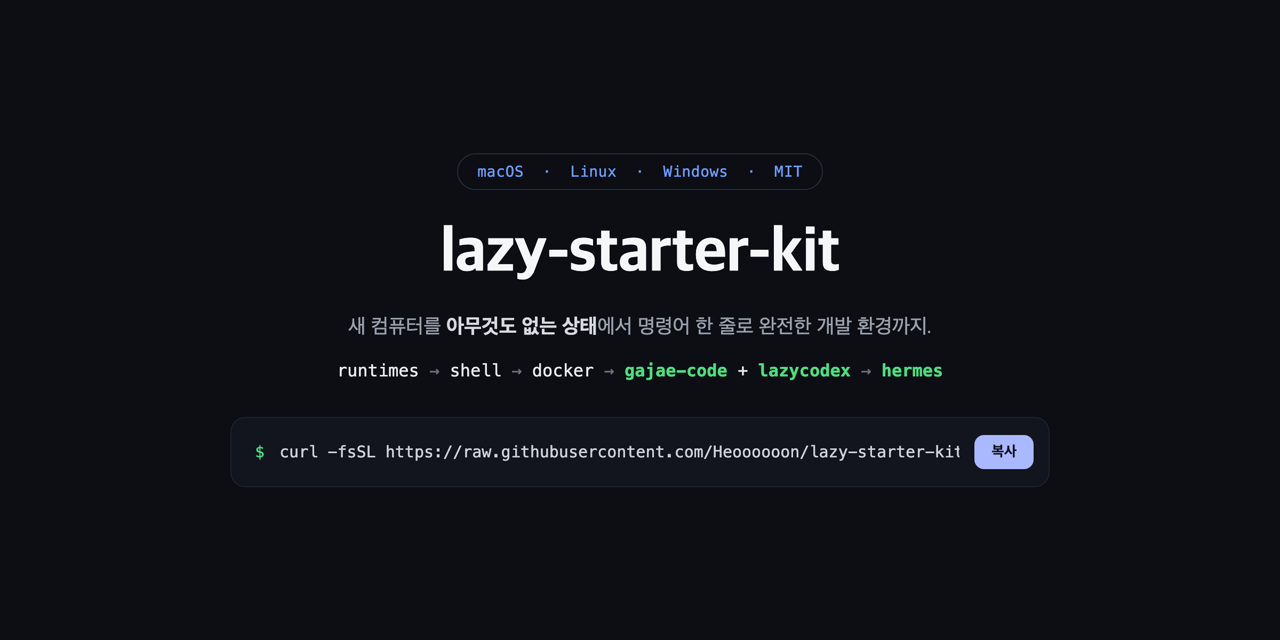
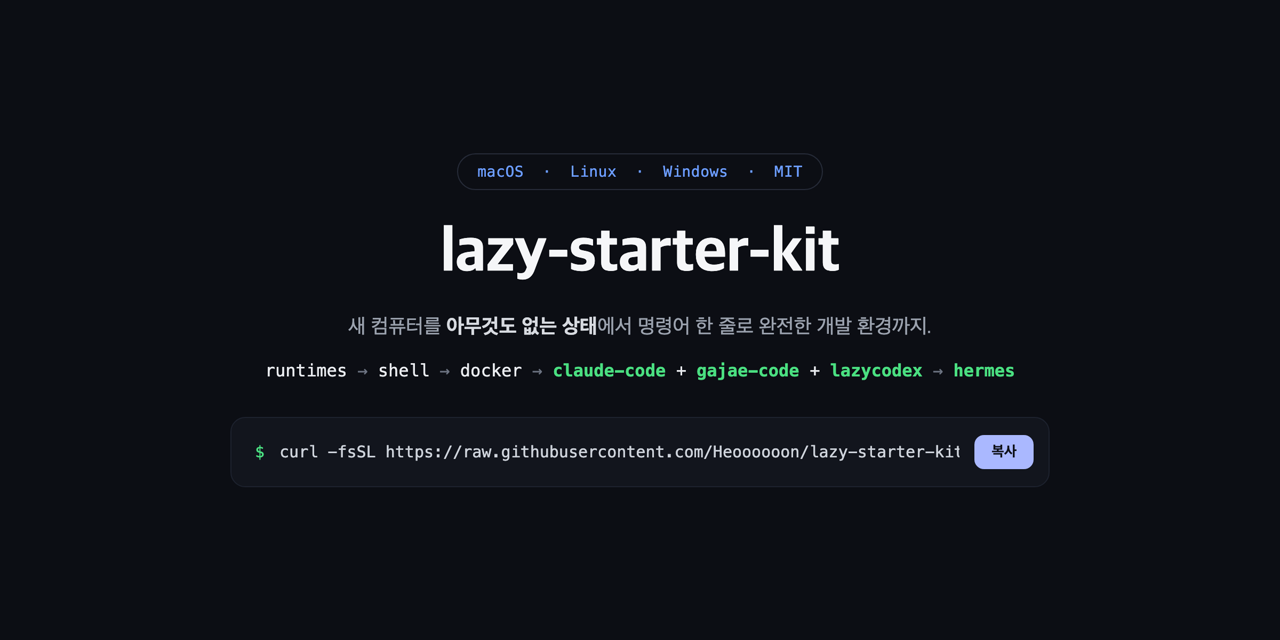
ci+docs: verify Claude Code on all six environments; document it
- ci: `claude` added to every install-verify tool list and every
  uninstall-verify gone-check (macOS, Ubuntu, Fedora, Arch, openSUSE,
  Windows), with ~/.local/bin added to the verify PATHs.
- docs: Claude Code listed in the agent tables of all four READMEs and
  in the credits; CHANGELOG entry under Unreleased.
- banner: the pipeline line now leads with claude-code (social preview
  regenerated to match).

Changed region(s): [[0.2188, 0.5625, 0.8125, 0.5938]]

diff --git a/CHANGELOG.md b/CHANGELOG.md
@@ -7,6 +7,14 @@ and the project aims to follow [Semantic Versioning](https://semver.org/).
 
 ## [Unreleased]
 
+### Added
+- **Claude Code (`claude`) installs by default on all three kits** via the
+  official native installer (`claude.ai/install.sh` / `install.ps1`) into
+  `~/.local/bin`, with the kit's temp-file download verification. The agent
+  keeps itself updated. Uninstall removes the binary and (confirm-gated,
+  with a `.claude.json` backup) the `~/.claude` settings/history. CI verifies
+  install and removal on all six environments.
+
 ## [0.2.0] - 2026-07-02
 
 ### Added

diff --git a/README.en.md b/README.en.md
@@ -83,7 +83,7 @@ stays at the repo root.
 | **Runtimes** | **mise** → node (LTS), python, go · **rustup** → rust + rust-analyzer · uv · bun |
 | **Containers** | **Colima** + docker / compose / buildx (Docker Desktop not required) |
 | **Git/GitHub** | identity (GitHub noreply email), HTTPS credential helper, sane defaults |
-| **AI agents** | **gajae-code** (`gjc`), **codex**, **lazycodex** (OmO), **Hermes Agent** (`hermes`, Nous Research) |
+| **AI agents** | **Claude Code** (`claude`), **gajae-code** (`gjc`), **codex**, **lazycodex** (OmO), **Hermes Agent** (`hermes`, Nous Research) |
 
 ## Steps & flags
 
@@ -179,6 +179,7 @@ brew install --cask rectangle maccy
 
 ## Notes on the AI agents
 
+- **Claude Code** (`claude`) installs via the official native installer (`claude.ai/install.sh`) into `~/.local/bin` and keeps itself updated.
 - **gajae-code** (`gjc`) installs globally via **bun** (`bun add -g gajae-code`); its bin lives in `~/.bun/bin` (added to PATH by the shell block).
 - **codex** (`@openai/codex`) installs globally via npm (mise-managed node).
 - **lazycodex** is intentionally **never** installed globally — it always runs through `npx lazycodex-ai …` and layers the OmO harness onto codex.
@@ -240,7 +241,7 @@ the upstream projects — please star/support them:
 - [cmux](https://www.cmux.dev/) (Ghostty-based; [Ghostty](https://github.com/ghostty-org/ghostty))
 
 **AI agents**
-- [gajae-code](https://github.com/Yeachan-Heo/gajae-code) · [Codex](https://github.com/openai/codex) · [lazycodex / OmO](https://github.com/code-yeongyu/lazycodex) · [Hermes Agent](https://github.com/NousResearch/hermes-agent)
+- [Claude Code](https://github.com/anthropics/claude-code) · [gajae-code](https://github.com/Yeachan-Heo/gajae-code) · [Codex](https://github.com/openai/codex) · [lazycodex / OmO](https://github.com/code-yeongyu/lazycodex) · [Hermes Agent](https://github.com/NousResearch/hermes-agent)
 
 ## License
 

diff --git a/linux/README.md b/linux/README.md
@@ -47,7 +47,7 @@ end-to-end (install → verify → uninstall) in CI on every change.
 | **Runtimes** | **mise** → node (LTS), python, go, **ast-grep** · **rustup** → rust + rust-analyzer · **uv** · **bun** |
 | **Containers** | **Docker Engine** + compose/buildx (official `get.docker.com`, opt-in) |
 | **Git/GitHub** | identity (GitHub noreply email), HTTPS credential helper, sane defaults |
-| **AI agents** | **gajae-code** (`gjc`), **codex**, **lazycodex** (OmO), **Hermes Agent** (`hermes`, Nous Research) |
+| **AI agents** | **Claude Code** (`claude`), **gajae-code** (`gjc`), **codex**, **lazycodex** (OmO), **Hermes Agent** (`hermes`, Nous Research) |
 
 ## Steps & flags
 